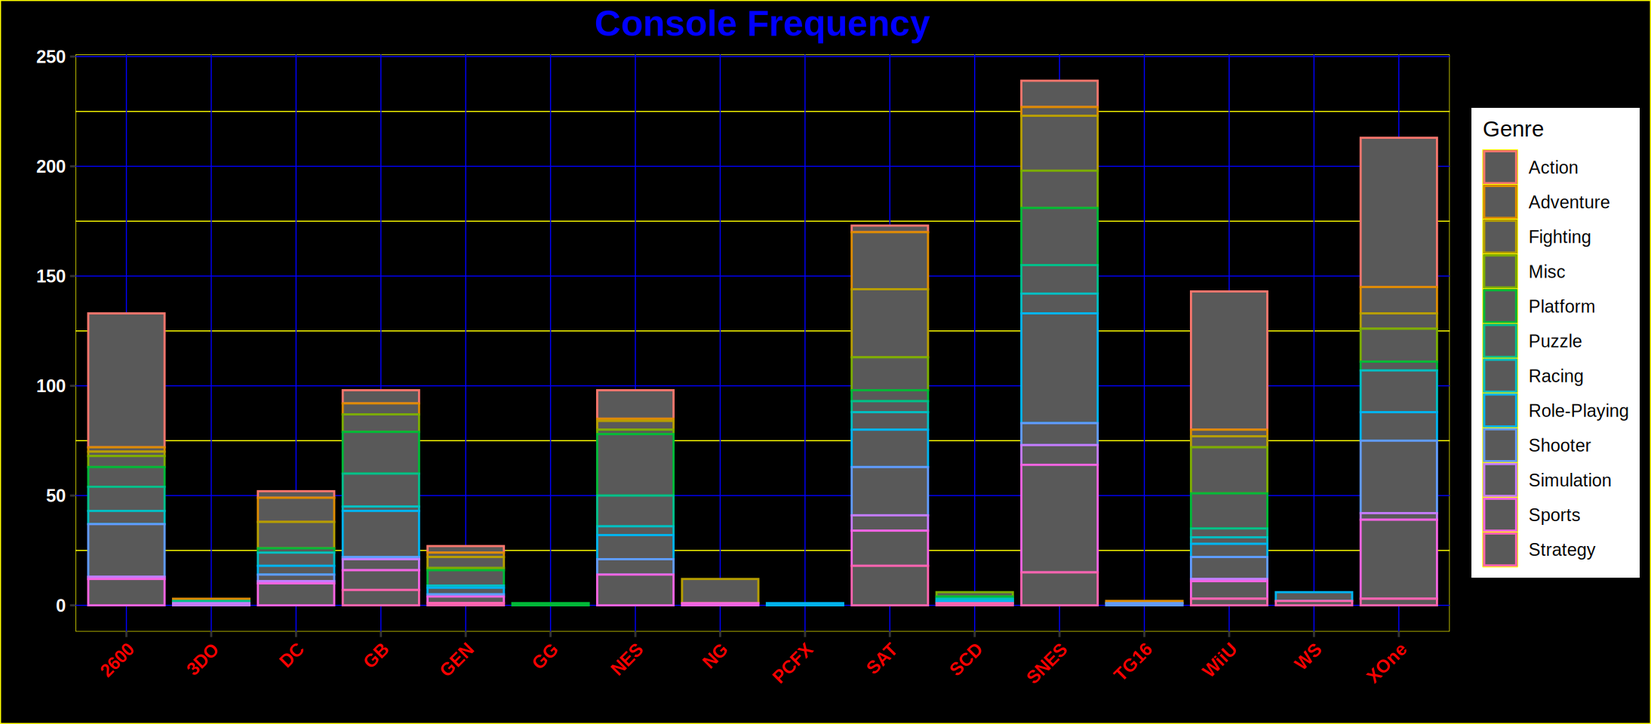
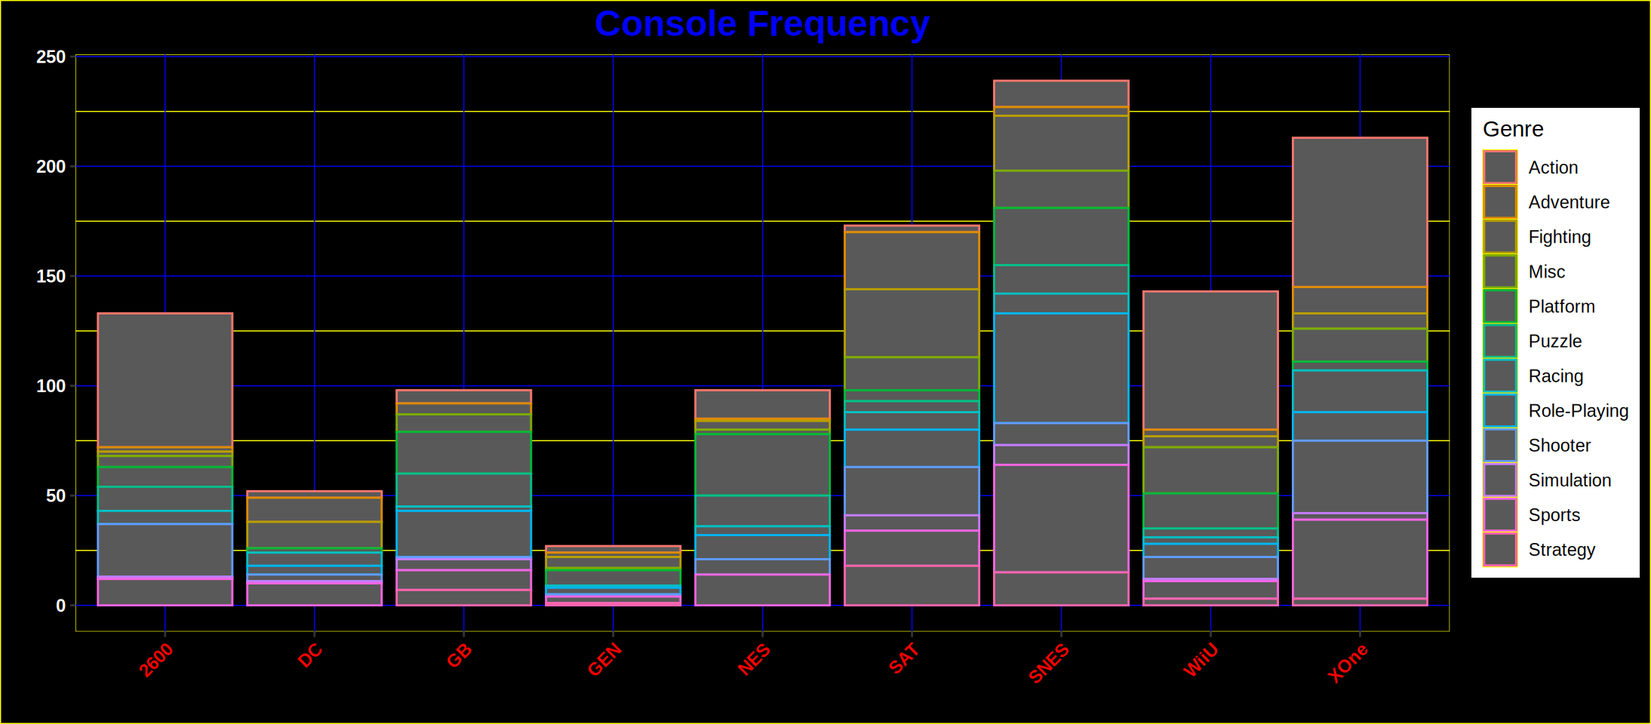
Seporating graphs for easy visualization, Exploratory analysis

diff --git a/docs/projects/VidGame/index.html b/docs/projects/VidGame/index.html
@@ -220,10 +220,10 @@ pre > code.sourceCode > span > a:first-child::before { text-decoration: underlin
 </div>
 </div>
 <div class="cell">
-<div class="sourceCode cell-code" id="cb4"><pre class="sourceCode r code-with-copy"><code class="sourceCode r"><span id="cb4-1"><a href="#cb4-1" aria-hidden="true" tabindex="-1"></a>Above_dataPlatformFreq <span class="ot">&lt;-</span> <span class="fu">subset</span>(dataPlatformFreq, <span class="at">subset =</span> dataPlatformFreq<span class="sc">$</span>Platform_Frequency <span class="sc">&gt;=</span> <span class="dv">250</span>)</span>
+<div class="sourceCode cell-code" id="cb4"><pre class="sourceCode r code-with-copy"><code class="sourceCode r"><span id="cb4-1"><a href="#cb4-1" aria-hidden="true" tabindex="-1"></a>above_dataPlatformFreq <span class="ot">&lt;-</span> <span class="fu">subset</span>(dataPlatformFreq, <span class="at">subset =</span> dataPlatformFreq<span class="sc">$</span>Platform_Frequency <span class="sc">&gt;=</span> <span class="dv">250</span>)</span>
 <span id="cb4-2"><a href="#cb4-2" aria-hidden="true" tabindex="-1"></a></span>
 <span id="cb4-3"><a href="#cb4-3" aria-hidden="true" tabindex="-1"></a><span class="co">#graph created by comparing the values in both columns on the given dataset</span></span>
-<span id="cb4-4"><a href="#cb4-4" aria-hidden="true" tabindex="-1"></a><span class="fu">ggplot</span>(Above_dataPlatformFreq, <span class="fu">aes</span>(<span class="at">x =</span> Platform, <span class="at">color =</span> Genre)) <span class="sc">+</span></span>
+<span id="cb4-4"><a href="#cb4-4" aria-hidden="true" tabindex="-1"></a><span class="fu">ggplot</span>(above_dataPlatformFreq, <span class="fu">aes</span>(<span class="at">x =</span> Platform, <span class="at">color =</span> Genre)) <span class="sc">+</span></span>
 <span id="cb4-5"><a href="#cb4-5" aria-hidden="true" tabindex="-1"></a>         <span class="fu">geom_bar</span>() <span class="sc">+</span></span>
 <span id="cb4-6"><a href="#cb4-6" aria-hidden="true" tabindex="-1"></a>  <span class="fu">scale_y_continuous</span>() <span class="sc">+</span></span>
 <span id="cb4-7"><a href="#cb4-7" aria-hidden="true" tabindex="-1"></a>  <span class="co">#Aesthetics and graph details.</span></span>
@@ -251,28 +251,29 @@ pre > code.sourceCode > span > a:first-child::before { text-decoration: underlin
 </div>
 </div>
 <div class="cell">
-<div class="sourceCode cell-code" id="cb5"><pre class="sourceCode r code-with-copy"><code class="sourceCode r"><span id="cb5-1"><a href="#cb5-1" aria-hidden="true" tabindex="-1"></a>Below_dataPlatformFreq <span class="ot">&lt;-</span> <span class="fu">subset</span>(dataPlatformFreq, <span class="at">subset =</span> dataPlatformFreq<span class="sc">$</span>Platform_Frequency <span class="sc">&lt;=</span> <span class="dv">250</span>)</span>
-<span id="cb5-2"><a href="#cb5-2" aria-hidden="true" tabindex="-1"></a></span>
-<span id="cb5-3"><a href="#cb5-3" aria-hidden="true" tabindex="-1"></a><span class="co">#graph created by comparing the values in both columns on the given dataset</span></span>
-<span id="cb5-4"><a href="#cb5-4" aria-hidden="true" tabindex="-1"></a><span class="fu">ggplot</span>(Below_dataPlatformFreq, <span class="fu">aes</span>(<span class="at">x =</span> Platform, <span class="at">color =</span> Genre)) <span class="sc">+</span></span>
-<span id="cb5-5"><a href="#cb5-5" aria-hidden="true" tabindex="-1"></a>         <span class="fu">geom_bar</span>() <span class="sc">+</span></span>
-<span id="cb5-6"><a href="#cb5-6" aria-hidden="true" tabindex="-1"></a>  <span class="fu">scale_y_continuous</span>() <span class="sc">+</span></span>
-<span id="cb5-7"><a href="#cb5-7" aria-hidden="true" tabindex="-1"></a>  <span class="co">#Aesthetics and graph details.</span></span>
-<span id="cb5-8"><a href="#cb5-8" aria-hidden="true" tabindex="-1"></a>  <span class="fu">theme</span>(</span>
-<span id="cb5-9"><a href="#cb5-9" aria-hidden="true" tabindex="-1"></a>  <span class="at">panel.background =</span> <span class="fu">element_rect</span>(<span class="at">fill =</span> <span class="st">"black"</span>,</span>
-<span id="cb5-10"><a href="#cb5-10" aria-hidden="true" tabindex="-1"></a>                                <span class="at">color =</span> <span class="st">"yellow"</span>,</span>
-<span id="cb5-11"><a href="#cb5-11" aria-hidden="true" tabindex="-1"></a>                                <span class="at">size =</span> <span class="fl">0.25</span>, <span class="at">linetype =</span> <span class="st">'solid'</span>),</span>
-<span id="cb5-12"><a href="#cb5-12" aria-hidden="true" tabindex="-1"></a>  <span class="at">panel.grid.major =</span> <span class="fu">element_line</span>(<span class="at">size =</span> <span class="fl">0.25</span>, <span class="at">linetype =</span> <span class="st">'solid'</span>,</span>
-<span id="cb5-13"><a href="#cb5-13" aria-hidden="true" tabindex="-1"></a>                                <span class="at">color =</span> <span class="st">"blue"</span>), </span>
-<span id="cb5-14"><a href="#cb5-14" aria-hidden="true" tabindex="-1"></a>  <span class="at">panel.grid.minor =</span> <span class="fu">element_line</span>(<span class="at">size =</span> <span class="fl">0.25</span>, <span class="at">linetype =</span> <span class="st">'solid'</span>,</span>
-<span id="cb5-15"><a href="#cb5-15" aria-hidden="true" tabindex="-1"></a>                                <span class="at">color =</span> <span class="st">"yellow"</span>),</span>
-<span id="cb5-16"><a href="#cb5-16" aria-hidden="true" tabindex="-1"></a>  <span class="at">plot.background =</span> <span class="fu">element_rect</span>(<span class="at">fill =</span> <span class="st">"black"</span>, <span class="at">color =</span> <span class="st">"yellow"</span>),</span>
-<span id="cb5-17"><a href="#cb5-17" aria-hidden="true" tabindex="-1"></a>  <span class="at">axis.text.x =</span> <span class="fu">element_text</span>(<span class="at">face =</span> <span class="st">"bold"</span>, <span class="at">color =</span> <span class="st">"red"</span>, </span>
-<span id="cb5-18"><a href="#cb5-18" aria-hidden="true" tabindex="-1"></a>                             <span class="at">size=</span><span class="dv">9</span>, <span class="at">angle =</span> <span class="dv">45</span>,<span class="at">hjust=</span><span class="dv">1</span>),</span>
-<span id="cb5-19"><a href="#cb5-19" aria-hidden="true" tabindex="-1"></a>  <span class="at">axis.text.y =</span> <span class="fu">element_text</span>(<span class="at">face =</span> <span class="st">"bold"</span>, <span class="at">color =</span> <span class="st">"white"</span>, <span class="at">size=</span><span class="dv">9</span>, </span>
-<span id="cb5-20"><a href="#cb5-20" aria-hidden="true" tabindex="-1"></a>                             <span class="at">hjust=</span><span class="dv">1</span>), <span class="at">plot.title =</span> </span>
-<span id="cb5-21"><a href="#cb5-21" aria-hidden="true" tabindex="-1"></a>  <span class="fu">element_text</span>(<span class="at">color =</span> <span class="st">"blue"</span>, <span class="at">size =</span> <span class="dv">18</span>, <span class="at">face =</span> <span class="st">"bold"</span>, <span class="at">hjust =</span> <span class="fl">0.5</span>)) <span class="sc">+</span> </span>
-<span id="cb5-22"><a href="#cb5-22" aria-hidden="true" tabindex="-1"></a>  <span class="fu">labs</span>(<span class="at">title =</span> <span class="st">"Console Frequency"</span>)</span></code><button title="Copy to Clipboard" class="code-copy-button"><i class="bi"></i></button></pre></div>
+<div class="sourceCode cell-code" id="cb5"><pre class="sourceCode r code-with-copy"><code class="sourceCode r"><span id="cb5-1"><a href="#cb5-1" aria-hidden="true" tabindex="-1"></a>below_dataPlatformFreq <span class="ot">&lt;-</span> <span class="fu">subset</span>(dataPlatformFreq, <span class="at">subset =</span> dataPlatformFreq<span class="sc">$</span>Platform_Frequency <span class="sc">&lt;=</span> <span class="dv">250</span>)</span>
+<span id="cb5-2"><a href="#cb5-2" aria-hidden="true" tabindex="-1"></a>below_dataPlatformFreq <span class="ot">&lt;-</span> <span class="fu">subset</span>(below_dataPlatformFreq, <span class="at">subset =</span> below_dataPlatformFreq<span class="sc">$</span>Platform_Frequency <span class="sc">&gt;=</span> <span class="dv">25</span>)</span>
+<span id="cb5-3"><a href="#cb5-3" aria-hidden="true" tabindex="-1"></a></span>
+<span id="cb5-4"><a href="#cb5-4" aria-hidden="true" tabindex="-1"></a><span class="co">#graph created by comparing the values in both columns on the given dataset</span></span>
+<span id="cb5-5"><a href="#cb5-5" aria-hidden="true" tabindex="-1"></a><span class="fu">ggplot</span>(below_dataPlatformFreq, <span class="fu">aes</span>(<span class="at">x =</span> Platform, <span class="at">color =</span> Genre)) <span class="sc">+</span></span>
+<span id="cb5-6"><a href="#cb5-6" aria-hidden="true" tabindex="-1"></a>         <span class="fu">geom_bar</span>() <span class="sc">+</span></span>
+<span id="cb5-7"><a href="#cb5-7" aria-hidden="true" tabindex="-1"></a>  <span class="fu">scale_y_continuous</span>() <span class="sc">+</span></span>
+<span id="cb5-8"><a href="#cb5-8" aria-hidden="true" tabindex="-1"></a>  <span class="co">#Aesthetics and graph details.</span></span>
+<span id="cb5-9"><a href="#cb5-9" aria-hidden="true" tabindex="-1"></a>  <span class="fu">theme</span>(</span>
+<span id="cb5-10"><a href="#cb5-10" aria-hidden="true" tabindex="-1"></a>  <span class="at">panel.background =</span> <span class="fu">element_rect</span>(<span class="at">fill =</span> <span class="st">"black"</span>,</span>
+<span id="cb5-11"><a href="#cb5-11" aria-hidden="true" tabindex="-1"></a>                                <span class="at">color =</span> <span class="st">"yellow"</span>,</span>
+<span id="cb5-12"><a href="#cb5-12" aria-hidden="true" tabindex="-1"></a>                                <span class="at">size =</span> <span class="fl">0.25</span>, <span class="at">linetype =</span> <span class="st">'solid'</span>),</span>
+<span id="cb5-13"><a href="#cb5-13" aria-hidden="true" tabindex="-1"></a>  <span class="at">panel.grid.major =</span> <span class="fu">element_line</span>(<span class="at">size =</span> <span class="fl">0.25</span>, <span class="at">linetype =</span> <span class="st">'solid'</span>,</span>
+<span id="cb5-14"><a href="#cb5-14" aria-hidden="true" tabindex="-1"></a>                                <span class="at">color =</span> <span class="st">"blue"</span>), </span>
+<span id="cb5-15"><a href="#cb5-15" aria-hidden="true" tabindex="-1"></a>  <span class="at">panel.grid.minor =</span> <span class="fu">element_line</span>(<span class="at">size =</span> <span class="fl">0.25</span>, <span class="at">linetype =</span> <span class="st">'solid'</span>,</span>
+<span id="cb5-16"><a href="#cb5-16" aria-hidden="true" tabindex="-1"></a>                                <span class="at">color =</span> <span class="st">"yellow"</span>),</span>
+<span id="cb5-17"><a href="#cb5-17" aria-hidden="true" tabindex="-1"></a>  <span class="at">plot.background =</span> <span class="fu">element_rect</span>(<span class="at">fill =</span> <span class="st">"black"</span>, <span class="at">color =</span> <span class="st">"yellow"</span>),</span>
+<span id="cb5-18"><a href="#cb5-18" aria-hidden="true" tabindex="-1"></a>  <span class="at">axis.text.x =</span> <span class="fu">element_text</span>(<span class="at">face =</span> <span class="st">"bold"</span>, <span class="at">color =</span> <span class="st">"red"</span>, </span>
+<span id="cb5-19"><a href="#cb5-19" aria-hidden="true" tabindex="-1"></a>                             <span class="at">size=</span><span class="dv">9</span>, <span class="at">angle =</span> <span class="dv">45</span>,<span class="at">hjust=</span><span class="dv">1</span>),</span>
+<span id="cb5-20"><a href="#cb5-20" aria-hidden="true" tabindex="-1"></a>  <span class="at">axis.text.y =</span> <span class="fu">element_text</span>(<span class="at">face =</span> <span class="st">"bold"</span>, <span class="at">color =</span> <span class="st">"white"</span>, <span class="at">size=</span><span class="dv">9</span>, </span>
+<span id="cb5-21"><a href="#cb5-21" aria-hidden="true" tabindex="-1"></a>                             <span class="at">hjust=</span><span class="dv">1</span>), <span class="at">plot.title =</span> </span>
+<span id="cb5-22"><a href="#cb5-22" aria-hidden="true" tabindex="-1"></a>  <span class="fu">element_text</span>(<span class="at">color =</span> <span class="st">"blue"</span>, <span class="at">size =</span> <span class="dv">18</span>, <span class="at">face =</span> <span class="st">"bold"</span>, <span class="at">hjust =</span> <span class="fl">0.5</span>)) <span class="sc">+</span> </span>
+<span id="cb5-23"><a href="#cb5-23" aria-hidden="true" tabindex="-1"></a>  <span class="fu">labs</span>(<span class="at">title =</span> <span class="st">"Console Frequency"</span>)</span></code><button title="Copy to Clipboard" class="code-copy-button"><i class="bi"></i></button></pre></div>
 <div class="cell-output-display">
 <div>
 <figure class="figure">
@@ -282,31 +283,62 @@ pre > code.sourceCode > span > a:first-child::before { text-decoration: underlin
 </div>
 </div>
 <div class="cell">
-<div class="sourceCode cell-code" id="cb6"><pre class="sourceCode r code-with-copy"><code class="sourceCode r"><span id="cb6-1"><a href="#cb6-1" aria-hidden="true" tabindex="-1"></a><span class="co">#graph created by comparing the values in both columns on the given dataset</span></span>
-<span id="cb6-2"><a href="#cb6-2" aria-hidden="true" tabindex="-1"></a><span class="fu">ggplot</span>(dataVG, <span class="fu">aes</span>(<span class="at">x =</span> Genre)) <span class="sc">+</span></span>
-<span id="cb6-3"><a href="#cb6-3" aria-hidden="true" tabindex="-1"></a>         <span class="fu">geom_bar</span>() <span class="sc">+</span> </span>
-<span id="cb6-4"><a href="#cb6-4" aria-hidden="true" tabindex="-1"></a>  <span class="fu">scale_y_continuous</span>() <span class="sc">+</span></span>
-<span id="cb6-5"><a href="#cb6-5" aria-hidden="true" tabindex="-1"></a>  <span class="fu">geom_text</span>(<span class="fu">aes</span>(<span class="at">label =</span> <span class="fu">after_stat</span>(count)), <span class="at">stat =</span> <span class="st">"count"</span>, <span class="at">vjust =</span> <span class="fl">1.5</span>, <span class="at">hjust =</span> .<span class="dv">5</span>, <span class="at">color =</span> <span class="st">"yellow"</span>, <span class="at">size=</span> <span class="fl">3.2</span>) <span class="sc">+</span></span>
-<span id="cb6-6"><a href="#cb6-6" aria-hidden="true" tabindex="-1"></a>  <span class="co">#Aesthetics and graph details.</span></span>
-<span id="cb6-7"><a href="#cb6-7" aria-hidden="true" tabindex="-1"></a>  <span class="fu">theme</span>( </span>
-<span id="cb6-8"><a href="#cb6-8" aria-hidden="true" tabindex="-1"></a>  <span class="at">panel.background =</span> <span class="fu">element_rect</span>(<span class="at">fill =</span> <span class="st">"black"</span>,</span>
-<span id="cb6-9"><a href="#cb6-9" aria-hidden="true" tabindex="-1"></a>                                <span class="at">color =</span> <span class="st">"yellow"</span>,</span>
-<span id="cb6-10"><a href="#cb6-10" aria-hidden="true" tabindex="-1"></a>                                <span class="at">size =</span> <span class="fl">0.25</span>, <span class="at">linetype =</span> <span class="st">'solid'</span>), </span>
-<span id="cb6-11"><a href="#cb6-11" aria-hidden="true" tabindex="-1"></a>  <span class="at">panel.grid.major =</span> <span class="fu">element_line</span>(<span class="at">size =</span> <span class="fl">0.25</span>, <span class="at">linetype =</span> <span class="st">'solid'</span>,</span>
-<span id="cb6-12"><a href="#cb6-12" aria-hidden="true" tabindex="-1"></a>                                <span class="at">color =</span> <span class="st">"blue"</span>), </span>
-<span id="cb6-13"><a href="#cb6-13" aria-hidden="true" tabindex="-1"></a>  <span class="at">panel.grid.minor =</span> <span class="fu">element_line</span>(<span class="at">size =</span> <span class="fl">0.25</span>, <span class="at">linetype =</span> <span class="st">'solid'</span>,</span>
-<span id="cb6-14"><a href="#cb6-14" aria-hidden="true" tabindex="-1"></a>                                <span class="at">color =</span> <span class="st">"yellow"</span>),</span>
-<span id="cb6-15"><a href="#cb6-15" aria-hidden="true" tabindex="-1"></a>  <span class="at">plot.background =</span> <span class="fu">element_rect</span>(<span class="at">fill =</span> <span class="st">"black"</span>, <span class="at">color =</span> <span class="st">"yellow"</span>),</span>
-<span id="cb6-16"><a href="#cb6-16" aria-hidden="true" tabindex="-1"></a>  <span class="at">axis.text.x =</span> <span class="fu">element_text</span>(<span class="at">face =</span> <span class="st">"bold"</span>, <span class="at">color =</span> <span class="st">"red"</span>, </span>
-<span id="cb6-17"><a href="#cb6-17" aria-hidden="true" tabindex="-1"></a>                             <span class="at">size=</span><span class="dv">9</span>, <span class="at">angle =</span> <span class="dv">45</span>,<span class="at">hjust=</span><span class="dv">1</span>),</span>
-<span id="cb6-18"><a href="#cb6-18" aria-hidden="true" tabindex="-1"></a>  <span class="at">axis.text.y =</span> <span class="fu">element_text</span>(<span class="at">face =</span> <span class="st">"bold"</span>, <span class="at">color =</span> <span class="st">"white"</span>, <span class="at">size=</span><span class="dv">9</span>, </span>
-<span id="cb6-19"><a href="#cb6-19" aria-hidden="true" tabindex="-1"></a>                             <span class="at">hjust=</span><span class="dv">1</span>), <span class="at">plot.title =</span> </span>
-<span id="cb6-20"><a href="#cb6-20" aria-hidden="true" tabindex="-1"></a>  <span class="fu">element_text</span>(<span class="at">color =</span> <span class="st">"blue"</span>, <span class="at">size =</span> <span class="dv">18</span>, <span class="at">face =</span> <span class="st">"bold"</span>, <span class="at">hjust =</span> <span class="fl">0.5</span>)) <span class="sc">+</span> </span>
-<span id="cb6-21"><a href="#cb6-21" aria-hidden="true" tabindex="-1"></a>  <span class="fu">labs</span>(<span class="at">title =</span> <span class="st">"Genre Frequency"</span>)</span></code><button title="Copy to Clipboard" class="code-copy-button"><i class="bi"></i></button></pre></div>
+<div class="sourceCode cell-code" id="cb6"><pre class="sourceCode r code-with-copy"><code class="sourceCode r"><span id="cb6-1"><a href="#cb6-1" aria-hidden="true" tabindex="-1"></a>min_dataPlatformFreq <span class="ot">&lt;-</span> <span class="fu">subset</span>(dataPlatformFreq, <span class="at">subset =</span> dataPlatformFreq<span class="sc">$</span>Platform_Frequency <span class="sc">&lt;=</span> <span class="dv">25</span>)</span>
+<span id="cb6-2"><a href="#cb6-2" aria-hidden="true" tabindex="-1"></a></span>
+<span id="cb6-3"><a href="#cb6-3" aria-hidden="true" tabindex="-1"></a><span class="co">#graph created by comparing the values in both columns on the given dataset</span></span>
+<span id="cb6-4"><a href="#cb6-4" aria-hidden="true" tabindex="-1"></a><span class="fu">ggplot</span>(min_dataPlatformFreq, <span class="fu">aes</span>(<span class="at">x =</span> Platform, <span class="at">color =</span> Genre)) <span class="sc">+</span></span>
+<span id="cb6-5"><a href="#cb6-5" aria-hidden="true" tabindex="-1"></a>         <span class="fu">geom_bar</span>() <span class="sc">+</span></span>
+<span id="cb6-6"><a href="#cb6-6" aria-hidden="true" tabindex="-1"></a>  <span class="fu">scale_y_continuous</span>() <span class="sc">+</span></span>
+<span id="cb6-7"><a href="#cb6-7" aria-hidden="true" tabindex="-1"></a>  <span class="co">#Aesthetics and graph details.</span></span>
+<span id="cb6-8"><a href="#cb6-8" aria-hidden="true" tabindex="-1"></a>  <span class="fu">theme</span>(</span>
+<span id="cb6-9"><a href="#cb6-9" aria-hidden="true" tabindex="-1"></a>  <span class="at">panel.background =</span> <span class="fu">element_rect</span>(<span class="at">fill =</span> <span class="st">"black"</span>,</span>
+<span id="cb6-10"><a href="#cb6-10" aria-hidden="true" tabindex="-1"></a>                                <span class="at">color =</span> <span class="st">"yellow"</span>,</span>
+<span id="cb6-11"><a href="#cb6-11" aria-hidden="true" tabindex="-1"></a>                                <span class="at">size =</span> <span class="fl">0.25</span>, <span class="at">linetype =</span> <span class="st">'solid'</span>),</span>
+<span id="cb6-12"><a href="#cb6-12" aria-hidden="true" tabindex="-1"></a>  <span class="at">panel.grid.major =</span> <span class="fu">element_line</span>(<span class="at">size =</span> <span class="fl">0.25</span>, <span class="at">linetype =</span> <span class="st">'solid'</span>,</span>
+<span id="cb6-13"><a href="#cb6-13" aria-hidden="true" tabindex="-1"></a>                                <span class="at">color =</span> <span class="st">"blue"</span>), </span>
+<span id="cb6-14"><a href="#cb6-14" aria-hidden="true" tabindex="-1"></a>  <span class="at">panel.grid.minor =</span> <span class="fu">element_line</span>(<span class="at">size =</span> <span class="fl">0.25</span>, <span class="at">linetype =</span> <span class="st">'solid'</span>,</span>
+<span id="cb6-15"><a href="#cb6-15" aria-hidden="true" tabindex="-1"></a>                                <span class="at">color =</span> <span class="st">"yellow"</span>),</span>
+<span id="cb6-16"><a href="#cb6-16" aria-hidden="true" tabindex="-1"></a>  <span class="at">plot.background =</span> <span class="fu">element_rect</span>(<span class="at">fill =</span> <span class="st">"black"</span>, <span class="at">color =</span> <span class="st">"yellow"</span>),</span>
+<span id="cb6-17"><a href="#cb6-17" aria-hidden="true" tabindex="-1"></a>  <span class="at">axis.text.x =</span> <span class="fu">element_text</span>(<span class="at">face =</span> <span class="st">"bold"</span>, <span class="at">color =</span> <span class="st">"red"</span>, </span>
+<span id="cb6-18"><a href="#cb6-18" aria-hidden="true" tabindex="-1"></a>                             <span class="at">size=</span><span class="dv">9</span>, <span class="at">angle =</span> <span class="dv">45</span>,<span class="at">hjust=</span><span class="dv">1</span>),</span>
+<span id="cb6-19"><a href="#cb6-19" aria-hidden="true" tabindex="-1"></a>  <span class="at">axis.text.y =</span> <span class="fu">element_text</span>(<span class="at">face =</span> <span class="st">"bold"</span>, <span class="at">color =</span> <span class="st">"white"</span>, <span class="at">size=</span><span class="dv">9</span>, </span>
+<span id="cb6-20"><a href="#cb6-20" aria-hidden="true" tabindex="-1"></a>                             <span class="at">hjust=</span><span class="dv">1</span>), <span class="at">plot.title =</span> </span>
+<span id="cb6-21"><a href="#cb6-21" aria-hidden="true" tabindex="-1"></a>  <span class="fu">element_text</span>(<span class="at">color =</span> <span class="st">"blue"</span>, <span class="at">size =</span> <span class="dv">18</span>, <span class="at">face =</span> <span class="st">"bold"</span>, <span class="at">hjust =</span> <span class="fl">0.5</span>)) <span class="sc">+</span> </span>
+<span id="cb6-22"><a href="#cb6-22" aria-hidden="true" tabindex="-1"></a>  <span class="fu">labs</span>(<span class="at">title =</span> <span class="st">"Console Frequency"</span>)</span></code><button title="Copy to Clipboard" class="code-copy-button"><i class="bi"></i></button></pre></div>
 <div class="cell-output-display">
 <div>
 <figure class="figure">
 <p><img src="index_files/figure-html/unnamed-chunk-5-1.png" class="img-fluid figure-img" width="1094"></p>
+</figure>
+</div>
+</div>
+</div>
+<div class="cell">
+<div class="sourceCode cell-code" id="cb7"><pre class="sourceCode r code-with-copy"><code class="sourceCode r"><span id="cb7-1"><a href="#cb7-1" aria-hidden="true" tabindex="-1"></a><span class="co">#graph created by comparing the values in both columns on the given dataset</span></span>
+<span id="cb7-2"><a href="#cb7-2" aria-hidden="true" tabindex="-1"></a><span class="fu">ggplot</span>(dataVG, <span class="fu">aes</span>(<span class="at">x =</span> Genre)) <span class="sc">+</span></span>
+<span id="cb7-3"><a href="#cb7-3" aria-hidden="true" tabindex="-1"></a>         <span class="fu">geom_bar</span>() <span class="sc">+</span> </span>
+<span id="cb7-4"><a href="#cb7-4" aria-hidden="true" tabindex="-1"></a>  <span class="fu">scale_y_continuous</span>() <span class="sc">+</span></span>
+<span id="cb7-5"><a href="#cb7-5" aria-hidden="true" tabindex="-1"></a>  <span class="fu">geom_text</span>(<span class="fu">aes</span>(<span class="at">label =</span> <span class="fu">after_stat</span>(count)), <span class="at">stat =</span> <span class="st">"count"</span>, <span class="at">vjust =</span> <span class="fl">1.5</span>, <span class="at">hjust =</span> .<span class="dv">5</span>, <span class="at">color =</span> <span class="st">"yellow"</span>, <span class="at">size=</span> <span class="fl">3.2</span>) <span class="sc">+</span></span>
+<span id="cb7-6"><a href="#cb7-6" aria-hidden="true" tabindex="-1"></a>  <span class="co">#Aesthetics and graph details.</span></span>
+<span id="cb7-7"><a href="#cb7-7" aria-hidden="true" tabindex="-1"></a>  <span class="fu">theme</span>( </span>
+<span id="cb7-8"><a href="#cb7-8" aria-hidden="true" tabindex="-1"></a>  <span class="at">panel.background =</span> <span class="fu">element_rect</span>(<span class="at">fill =</span> <span class="st">"black"</span>,</span>
+<span id="cb7-9"><a href="#cb7-9" aria-hidden="true" tabindex="-1"></a>                                <span class="at">color =</span> <span class="st">"yellow"</span>,</span>
+<span id="cb7-10"><a href="#cb7-10" aria-hidden="true" tabindex="-1"></a>                                <span class="at">size =</span> <span class="fl">0.25</span>, <span class="at">linetype =</span> <span class="st">'solid'</span>), </span>
+<span id="cb7-11"><a href="#cb7-11" aria-hidden="true" tabindex="-1"></a>  <span class="at">panel.grid.major =</span> <span class="fu">element_line</span>(<span class="at">size =</span> <span class="fl">0.25</span>, <span class="at">linetype =</span> <span class="st">'solid'</span>,</span>
+<span id="cb7-12"><a href="#cb7-12" aria-hidden="true" tabindex="-1"></a>                                <span class="at">color =</span> <span class="st">"blue"</span>), </span>
+<span id="cb7-13"><a href="#cb7-13" aria-hidden="true" tabindex="-1"></a>  <span class="at">panel.grid.minor =</span> <span class="fu">element_line</span>(<span class="at">size =</span> <span class="fl">0.25</span>, <span class="at">linetype =</span> <span class="st">'solid'</span>,</span>
+<span id="cb7-14"><a href="#cb7-14" aria-hidden="true" tabindex="-1"></a>                                <span class="at">color =</span> <span class="st">"yellow"</span>),</span>
+<span id="cb7-15"><a href="#cb7-15" aria-hidden="true" tabindex="-1"></a>  <span class="at">plot.background =</span> <span class="fu">element_rect</span>(<span class="at">fill =</span> <span class="st">"black"</span>, <span class="at">color =</span> <span class="st">"yellow"</span>),</span>
+<span id="cb7-16"><a href="#cb7-16" aria-hidden="true" tabindex="-1"></a>  <span class="at">axis.text.x =</span> <span class="fu">element_text</span>(<span class="at">face =</span> <span class="st">"bold"</span>, <span class="at">color =</span> <span class="st">"red"</span>, </span>
+<span id="cb7-17"><a href="#cb7-17" aria-hidden="true" tabindex="-1"></a>                             <span class="at">size=</span><span class="dv">9</span>, <span class="at">angle =</span> <span class="dv">45</span>,<span class="at">hjust=</span><span class="dv">1</span>),</span>
+<span id="cb7-18"><a href="#cb7-18" aria-hidden="true" tabindex="-1"></a>  <span class="at">axis.text.y =</span> <span class="fu">element_text</span>(<span class="at">face =</span> <span class="st">"bold"</span>, <span class="at">color =</span> <span class="st">"white"</span>, <span class="at">size=</span><span class="dv">9</span>, </span>
+<span id="cb7-19"><a href="#cb7-19" aria-hidden="true" tabindex="-1"></a>                             <span class="at">hjust=</span><span class="dv">1</span>), <span class="at">plot.title =</span> </span>
+<span id="cb7-20"><a href="#cb7-20" aria-hidden="true" tabindex="-1"></a>  <span class="fu">element_text</span>(<span class="at">color =</span> <span class="st">"blue"</span>, <span class="at">size =</span> <span class="dv">18</span>, <span class="at">face =</span> <span class="st">"bold"</span>, <span class="at">hjust =</span> <span class="fl">0.5</span>)) <span class="sc">+</span> </span>
+<span id="cb7-21"><a href="#cb7-21" aria-hidden="true" tabindex="-1"></a>  <span class="fu">labs</span>(<span class="at">title =</span> <span class="st">"Genre Frequency"</span>)</span></code><button title="Copy to Clipboard" class="code-copy-button"><i class="bi"></i></button></pre></div>
+<div class="cell-output-display">
+<div>
+<figure class="figure">
+<p><img src="index_files/figure-html/unnamed-chunk-6-1.png" class="img-fluid figure-img" width="1094"></p>
 </figure>
 </div>
 </div>

diff --git a/docs/projects.html b/docs/projects.html
@@ -225,7 +225,7 @@ Analyzing…
 </div>
 </a>
 </div>
-<div class="g-col-1" data-index="1" data-categories="V29yayUyMGluJTIwUHJvZ3Jlc3M=" data-listing-file-modified-sort="1748314148812" data-listing-reading-time-sort="6" data-listing-word-count-sort="1084">
+<div class="g-col-1" data-index="1" data-categories="V29yayUyMGluJTIwUHJvZ3Jlc3M=" data-listing-file-modified-sort="1748327801554" data-listing-reading-time-sort="8" data-listing-word-count-sort="1415">
 <a href="./projects/VidGame/index.html" class="quarto-grid-link">
 <div class="quarto-grid-item card h-100 card-left">
 <p class="card-img-top">
